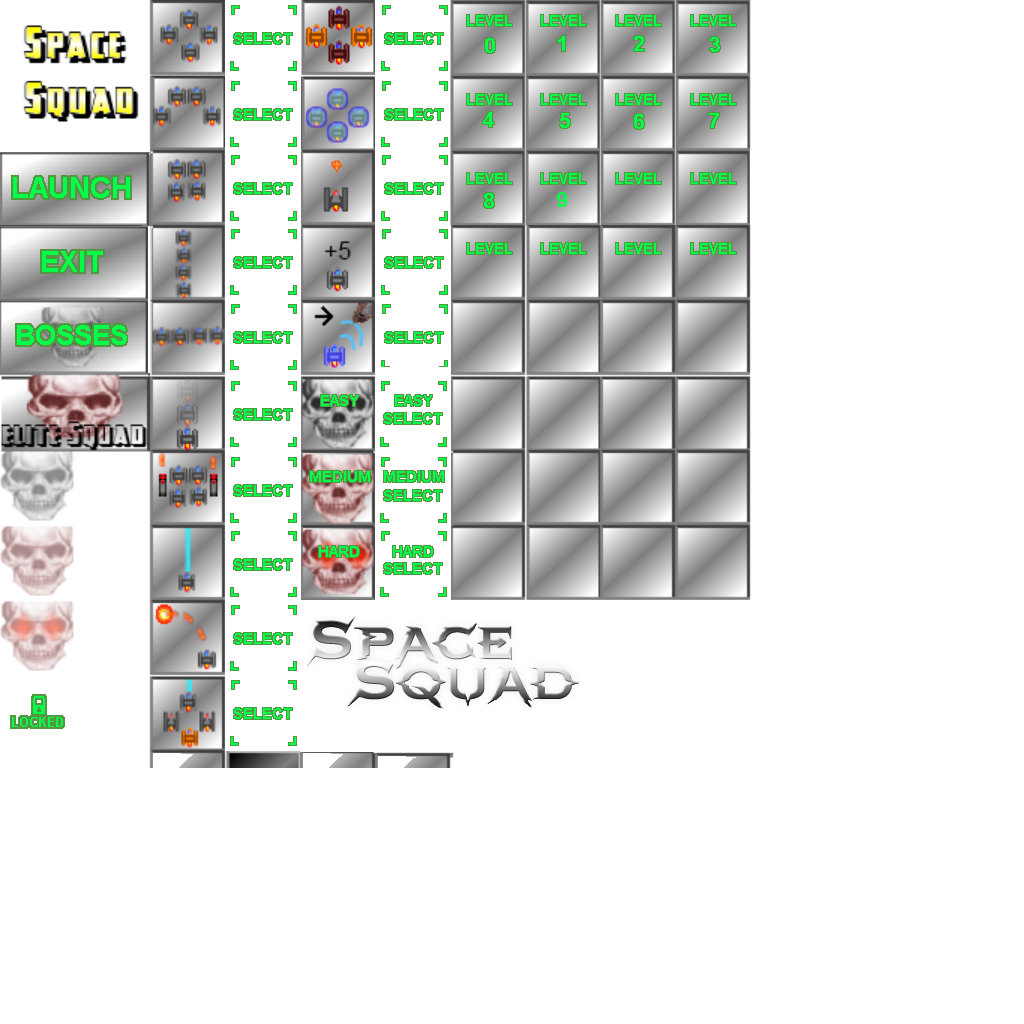
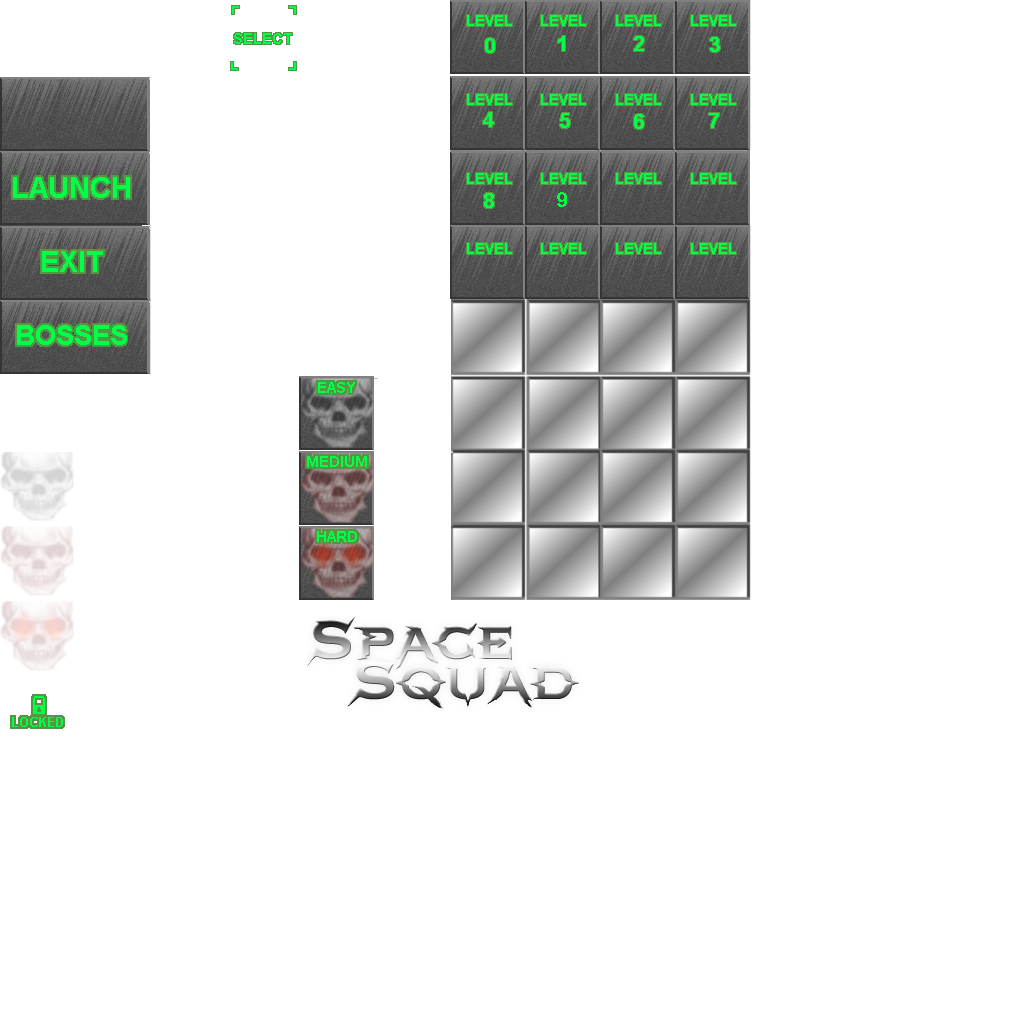
Improved the appearance of the UI for level select and the launch/exit buttons.  Deleted all the unused textures in interface.png

Changed region(s): [[0.0, 0.0, 0.75, 0.75]]

diff --git a/trunk/SpaceSquad/src/com/DungeonCrawl/UI_LevelSelect.java b/trunk/SpaceSquad/src/com/DungeonCrawl/UI_LevelSelect.java
@@ -37,10 +37,12 @@ public class UI_LevelSelect {
 	TextDisplaying txt_difficulty;
 	LogicEngine myLogicEngine = null;
 
+	TextureRegion tr_selected = null;
+	
 	int i_selectedDifficulty = 0;
 
 	ArrayList<Rect> rects_difficulties = new ArrayList<Rect>();
-	ArrayList<TextureRegion> textrs_difficultiesSelected = new ArrayList<TextureRegion>();
+	
 	ArrayList<TextureRegion> textrs_difficulties = new ArrayList<TextureRegion>();
 	
 	ArrayList<TextureRegion> textrs_completedDifficulties = new ArrayList<TextureRegion>();
@@ -179,6 +181,10 @@ public class UI_LevelSelect {
 
 			textr_padlock = in_render.loadTextureRegion("data/"+GameRenderer.dpiFolder+"/interface.png", tex_interface, 9, 0, 50, 50);
 			
+			//load selected texture
+			tr_selected = in_render.loadTextureRegion(
+					"data/"+GameRenderer.dpiFolder+"/interface.png", tex_interface, 0, 3,
+					50, 50);
 			// load rectangles
 			for (int i = 0; i < 3; i++) {
 				int i_StartingX = 25;
@@ -192,9 +198,7 @@ public class UI_LevelSelect {
 				rects_difficulties.add(rect_Button);
 				textrs_difficulties.add(textr_Button);
 
-				textr_Button = in_render.loadTextureRegion(
-						"data/"+GameRenderer.dpiFolder+"/interface.png", tex_interface, i + 5, 5, 50, 50);
-				textrs_difficultiesSelected.add(textr_Button);
+			
 			}
 		}
 
@@ -213,7 +217,7 @@ public class UI_LevelSelect {
 			{
 				Utils.drawRect(textrs_difficulties.get(i), rects_difficulties.get(i),
 						batch);
-				Utils.drawRect(textrs_difficultiesSelected.get(i),
+				Utils.drawRect(tr_selected,
 						rects_difficulties.get(i), batch);
 			}
 
